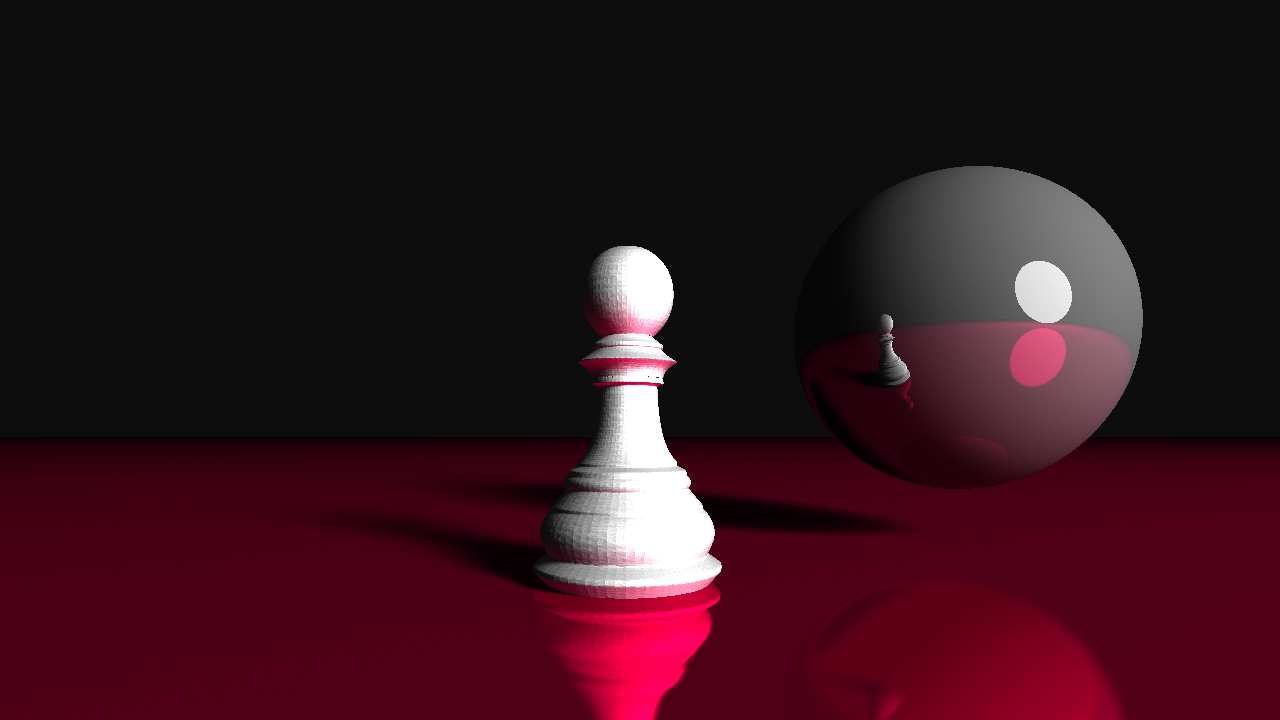
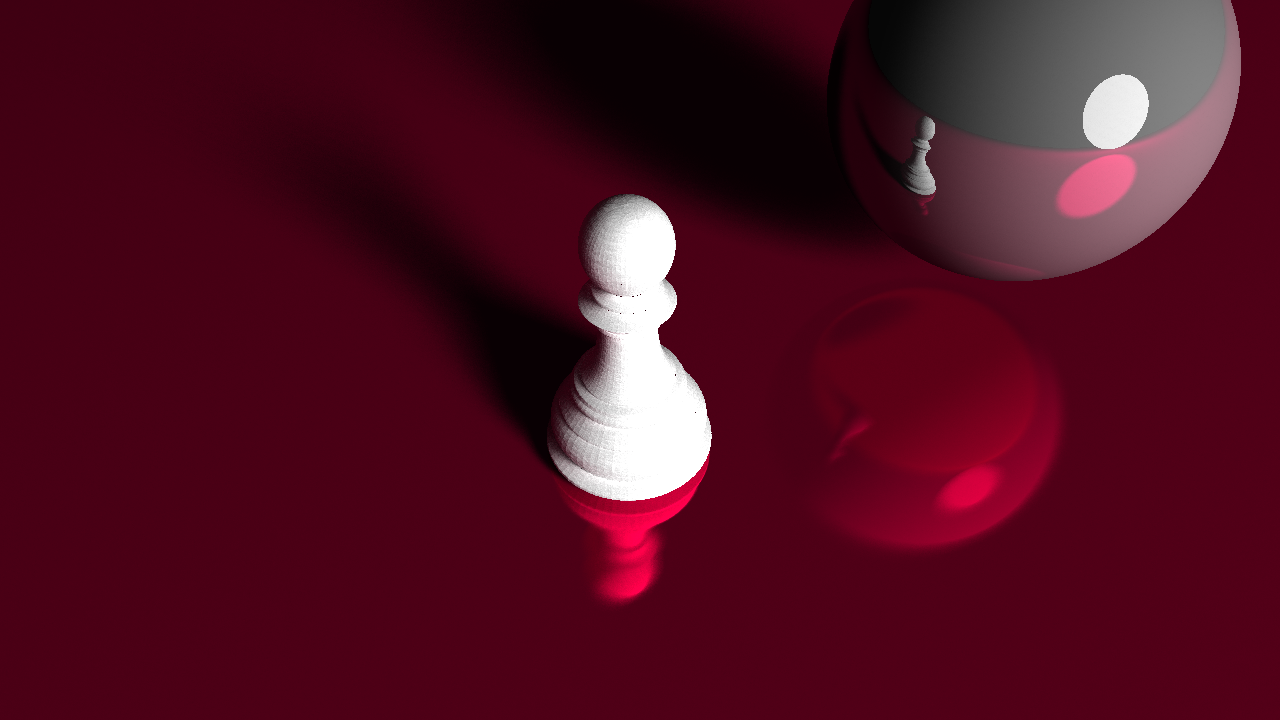
Camera bug correction

diff --git a/src/libs/scene_builder.cpp b/src/libs/scene_builder.cpp
@@ -240,6 +240,7 @@ void SceneBuilder::buildCamera(vector<string> camera_str) {
     const string s = camera_str[0];
     glm::vec3 pos;
     glm::vec3 look_at;
+    float fov;
 
     smatch match;
 
@@ -257,9 +258,17 @@ void SceneBuilder::buildCamera(vector<string> camera_str) {
     else
         throwErrorCamera();
 
+    regex fov_rgx = searchFloat("fov");
+    if(regex_search(s.begin(), s.end(), match, fov_rgx))
+        fov = stof(match[1]);
+    else
+        throwErrorCamera();
+
+
     Camera c = {
         pos,
-        look_at
+        look_at,
+        fov
     };
 
     this->camera = c;
@@ -267,13 +276,20 @@ void SceneBuilder::buildCamera(vector<string> camera_str) {
 }
 
 
-void SceneBuilder::sendDataToShader(GLuint ComputeShaderProgram, glm::mat4 projection_matrix) {
+void SceneBuilder::sendDataToShader(GLuint ComputeShaderProgram, int width, int heigth) {
 
-	glm::vec3 eye_pos = glm::vec3(0, 0, 0.5);
 	glm::mat4 viewMatrix = glm::lookAt(
 		this->camera.pos,
 		this->camera.look_at,
 		glm::vec3(0, 1, 0)
+	);
+
+    glm::mat4 projection_matrix = glm::perspectiveFov(
+		glm::radians(this->camera.fov),
+		float(width),
+		float(heigth),
+		0.01f,
+		100.f
 	);
 
 
@@ -343,7 +359,7 @@ void SceneBuilder::sendDataToShader(GLuint ComputeShaderProgram, glm::mat4 proje
 
     glBindBufferBase(GL_SHADER_STORAGE_BUFFER, 0, ssbo_vert_norm);
     glUniformMatrix4fv(uniformPV, 1, GL_FALSE, glm::value_ptr(PVMatrix));
-	glUniform3fv(uniformEyePos, 1, glm::value_ptr(eye_pos));
+	glUniform3fv(uniformEyePos, 1, glm::value_ptr(this->camera.pos));
 
     glUniform1i(u_NUM_SPHERES, nb_spheres);
     glUniform1i(u_NUM_VERTICES, this->meshes_vertices.size());

diff --git a/src/libs/engine.cpp b/src/libs/engine.cpp
@@ -22,14 +22,9 @@ void RayTracingEngine::run(int nbFrames, char* output_path, int nb_sample) {
     GLuint uniformSeed = glGetUniformLocation(this->Compute_Prog, "seed");
 	GLuint uniformNbFrames = glGetUniformLocation(this->Compute_Prog, "nb_frames");
 
-	glm::mat4 projectionMatrix = glm::perspective(
-		glm::radians(50.f),
-		float(WIDTH) / float(HEIGTH),
-		0.01f,
-		100.f
-	);
+
 	
-	this->scene_builder.sendDataToShader(this->Compute_Prog, projectionMatrix);
+	this->scene_builder.sendDataToShader(this->Compute_Prog, this->WIDTH, this->HEIGTH);
 
 	srand (time(NULL));
 

diff --git a/src/headers/scene_builder.h b/src/headers/scene_builder.h
@@ -6,6 +6,7 @@
 struct Camera {
         glm::vec3 pos;
         glm::vec3 look_at;
+        float fov;
 };
 
 class SceneBuilder {
@@ -13,7 +14,7 @@ class SceneBuilder {
     public:
         SceneBuilder();
         SceneBuilder(char* path, int* WIDTH, int* HEIGTH);
-        void sendDataToShader(GLuint ComputeShaderProgram, glm::mat4 projection_matrix);
+        void sendDataToShader(GLuint ComputeShaderProgram, int width, int heigth);
     
     private:
         vector<glm::vec4> spheres;

diff --git a/README.md b/README.md
@@ -68,8 +68,9 @@ Mesh {
 
 
 Camera {
-    position = (0, 10, 5.5)
-    look_at = (0, 10, 0)
+    position = (0, 0.5, 0.5)
+    look_at = (0, 0, 0)
+    fov = 40
 }
 
 output_width = 1280
@@ -84,7 +85,7 @@ There are some limitations to LiSA, mostly cause of my lack of knowledge:
 
 
 ## Sample images
-````assets/chess_pawn.rto```` 1000 passes 3 samples
+````assets/chess_pawn.rto```` 200 passes 3 samples
 ![](results_images/chess/result.png)
 
 ````assets/cornell_box.rto```` 1000 passes 3 samples
